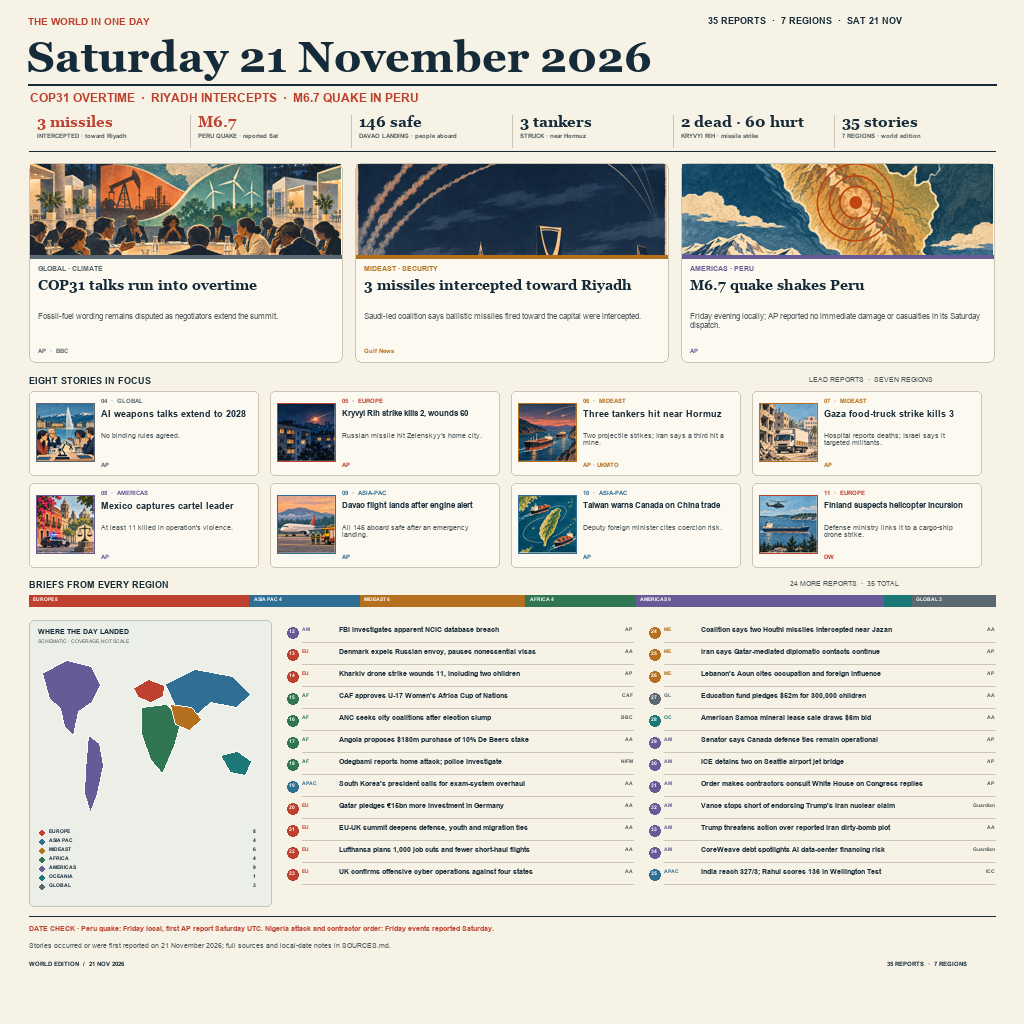
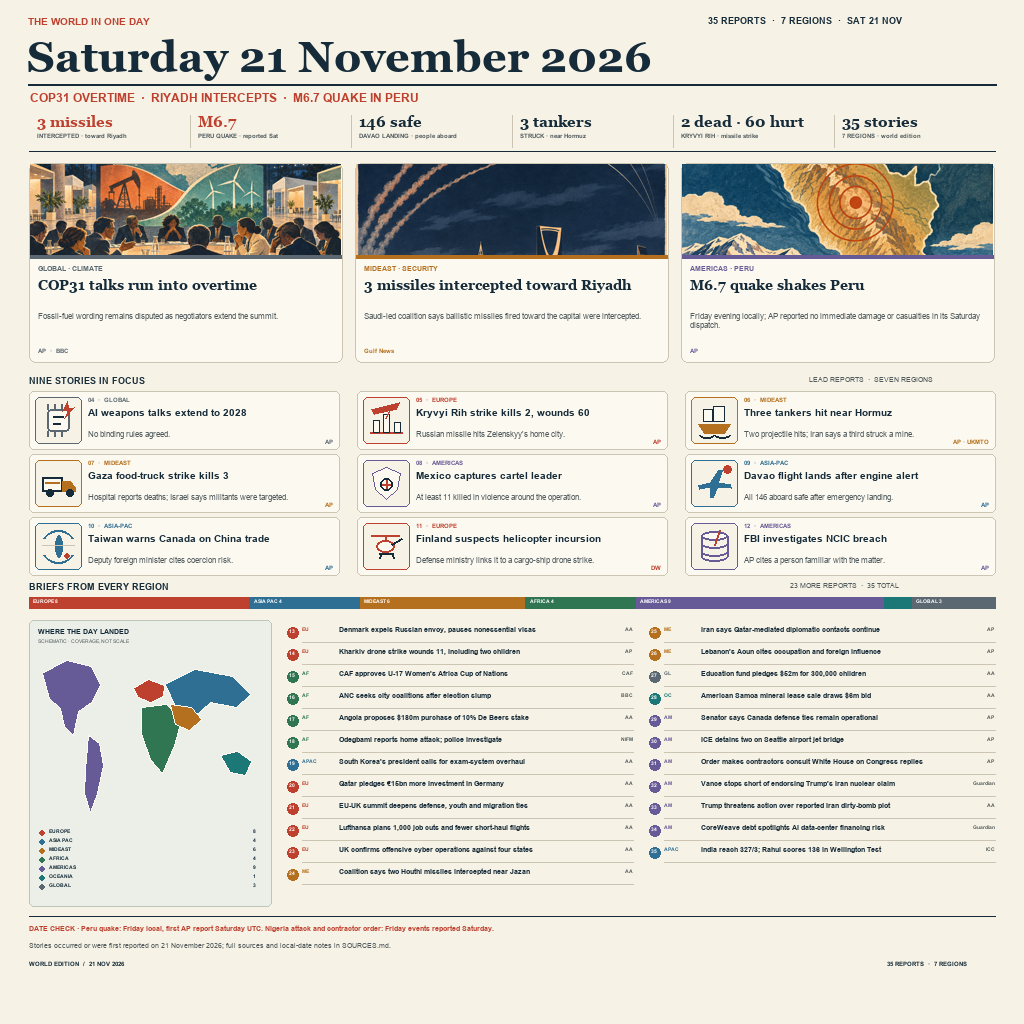
Improve 21 November news image focus layout

diff --git a/SOURCES.md b/SOURCES.md
@@ -1,6 +1,6 @@
 # Source ledger — Saturday 21 November 2026
 
-The image separates three lead stories, eight feature reports, and 24 briefs across seven regions. Reports are dated to the 21 November news cycle; where the event date differs, the date note says so.
+The image separates three lead stories, nine feature reports, and 23 briefs across seven regions. Reports are dated to the 21 November news cycle; where the event date differs, the date note says so.
 
 ## Lead stories
 
@@ -8,7 +8,7 @@ The image separates three lead stories, eight feature reports, and 24 briefs acr
 2. **Riyadh missile interceptions.** Saudi-led coalition said it intercepted three ballistic missiles fired toward Riyadh. [Gulf News, 21 November](https://gulfnews.com/uae/middle-east-war-8-things-uae-residents-need-to-know-tonight-november-21-1.500756425)
 3. **Peru earthquake.** **Date shift:** a magnitude 6.7 quake struck at 7:09 p.m. Friday local time; AP's first report is dated Saturday UTC and said no damage or casualties were immediately reported. [Associated Press](https://apnews.com/article/d9c0a1de6be970d6a5a36993c607f29f)
 
-## Eight feature reports
+## Nine feature reports
 
 4. UN-backed Geneva talks extended discussion of lethal autonomous weapons for two years, without a binding-standards commitment. [Associated Press](https://apnews.com/article/ebe057d2a47cde53100970c8f648e7fa)
 5. AP reported two killed and 60 wounded in the Russian missile strike on Kryvyi Rih; local officials supplied the casualty figures. [Associated Press](https://apnews.com/article/russia-ukraine-war-missile-zelenskyy-trump-bfdee2ffadc2693e7338d6822e5356ef)
@@ -18,10 +18,10 @@ The image separates three lead stories, eight feature reports, and 24 briefs acr
 9. An Air Niugini flight carrying 146 passengers and crew made an emergency landing in Davao after an indication of a possible engine fire; all aboard were safe, officials said. [Associated Press, 21 November](https://apnews.com/article/a7626e8c97e7b829d3c825c15b5a50c4)
 10. Taiwan's deputy foreign minister warned Canada against deeper China trade ties at the Halifax security forum. [Associated Press](https://apnews.com/article/2e5eb3949e4c1a1d394363663791f883)
 11. Finland's Defense Ministry suspected a Russian helicopter violated its airspace and linked the concern to a drone strike on a Russian cargo ship. [Deutsche Welle](https://www.dw.com/en/russian-helicopter-suspected-of-violating-finnish-airspace/a-80010133)
-
-## Twenty-four briefs
-
 12. FBI is investigating an apparent breach of the National Crime Information Center, AP reported citing a person familiar with the matter. [Associated Press](https://apnews.com/article/d066cff87a64a564db0a00172c124972)
+
+## Twenty-three briefs
+
 13. Denmark ordered Russia's defense attaché to leave and said it would halt non-essential visas for Russian citizens. [Anadolu Agency, Saturday briefing](https://www.aa.com.tr/en/world/morning-briefing-nov-21-2026/4132676)
 14. A Russian drone attack on an apartment building in Ukraine's Kharkiv region wounded 11 people, including two children, officials said. [Associated Press](https://apnews.com/article/russia-ukraine-war-missile-zelenskyy-trump-bfdee2ffadc2693e7338d6822e5356ef)
 15. CAF's executive committee approved the launch of a U-17 Women's Africa Cup of Nations. [CAF, 21 November](https://www.cafonline.com/inside-caf/news/caf-executive-committee-approves-historic-launch-of-u-17-womens-africa-cup-of-nations-and-opens-bidding-for-wafcon-2028/)
